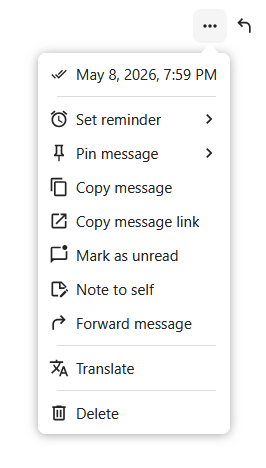
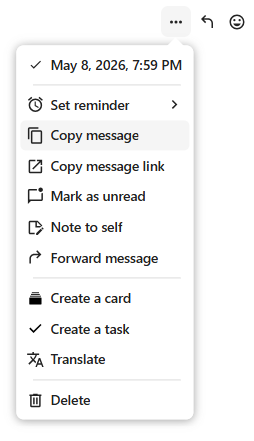
docs(design): addres jan's comments

diff --git a/developer_manual/design/introduction.rst b/developer_manual/design/introduction.rst
@@ -14,18 +14,18 @@ Each Nextcloud app is unique and different, but all Nextcloud apps are built kee
    the `W3 website <https://www.w3.org/WAI/standards-guidelines/wcag/glance/>`__
 -  Software should work. Only put features into main branch when they are complete. It is better to not have a feature instead of having one that works poorly.
 -  Software should get out of the way. Do things automatically instead of offering configuration options. When people ask for a setting, find out what the root of the problem is and fix that instead.
-   Also read `Choosing our Preferences <http://ometer.com/preferences.html>`__.
+   Also read `Choosing our Preferences <https://ometer.com/preferences.html>`__.
 -  People’s data is sacred. Provide undo for most operations and optionally a confirmation for bigger more complex operations, but be careful about confirmations `as they might be
-   dismissed <http://www.alistapart.com/articles/neveruseawarning/>`__.
+   dismissed <https://alistapart.com/article/neveruseawarning/>`__.
 -  People deserve to know when they are interacting with AI. AI-generated items must have an indication that they were AI-generated and in many places in Nextcloud this is done through the use of the
    color and iconography.
 -  The state of the application should be clear. If something loads, provide feedback. Reactions should be quick, ideally under 100ms as per `response time
    limits <https://www.nngroup.com/articles/response-times-3-important-limits/>`__.
 -  The state of the application should be clear. If something loads, provide feedback.
 -  Regularly reset your installation to see what the first-run experience is like, and improve it.
--  Ideally do `usability testing <http://jancborchardt.net/usability-in-free-software>`__ to know how people use the software. Testing with 5 users is enough to identify most of your problems.
+-  Ideally do `usability testing <https://jancborchardt.net/usability-in-free-software>`__ to know how people use the software. Testing with 5 users is enough to identify most of your problems.
 
-For further UX principles, read `Alex Faaborg from Mozilla <http://uxmag.com/articles/quantifying-usability>`__, and the `GNOME Human Interface Guidelines <https://developer.gnome.org/hig/principles.html>`__
+For further UX principles, read `Alex Faaborg from Mozilla <https://uxmag.com/articles/quantifying-usability>`__, and the `GNOME Human Interface Guidelines <https://developer.gnome.org/hig/principles.html>`__
 
 This guide mainly serves as guidelines for designing for Nextcloud on the browser. For Android, closely follow the latest `Material Design guidelines <https://m3.material.io/>`__ and for iOS, the
 `Apple Human Interface Guidelines <https://developer.apple.com/design/human-interface-guidelines>`__.